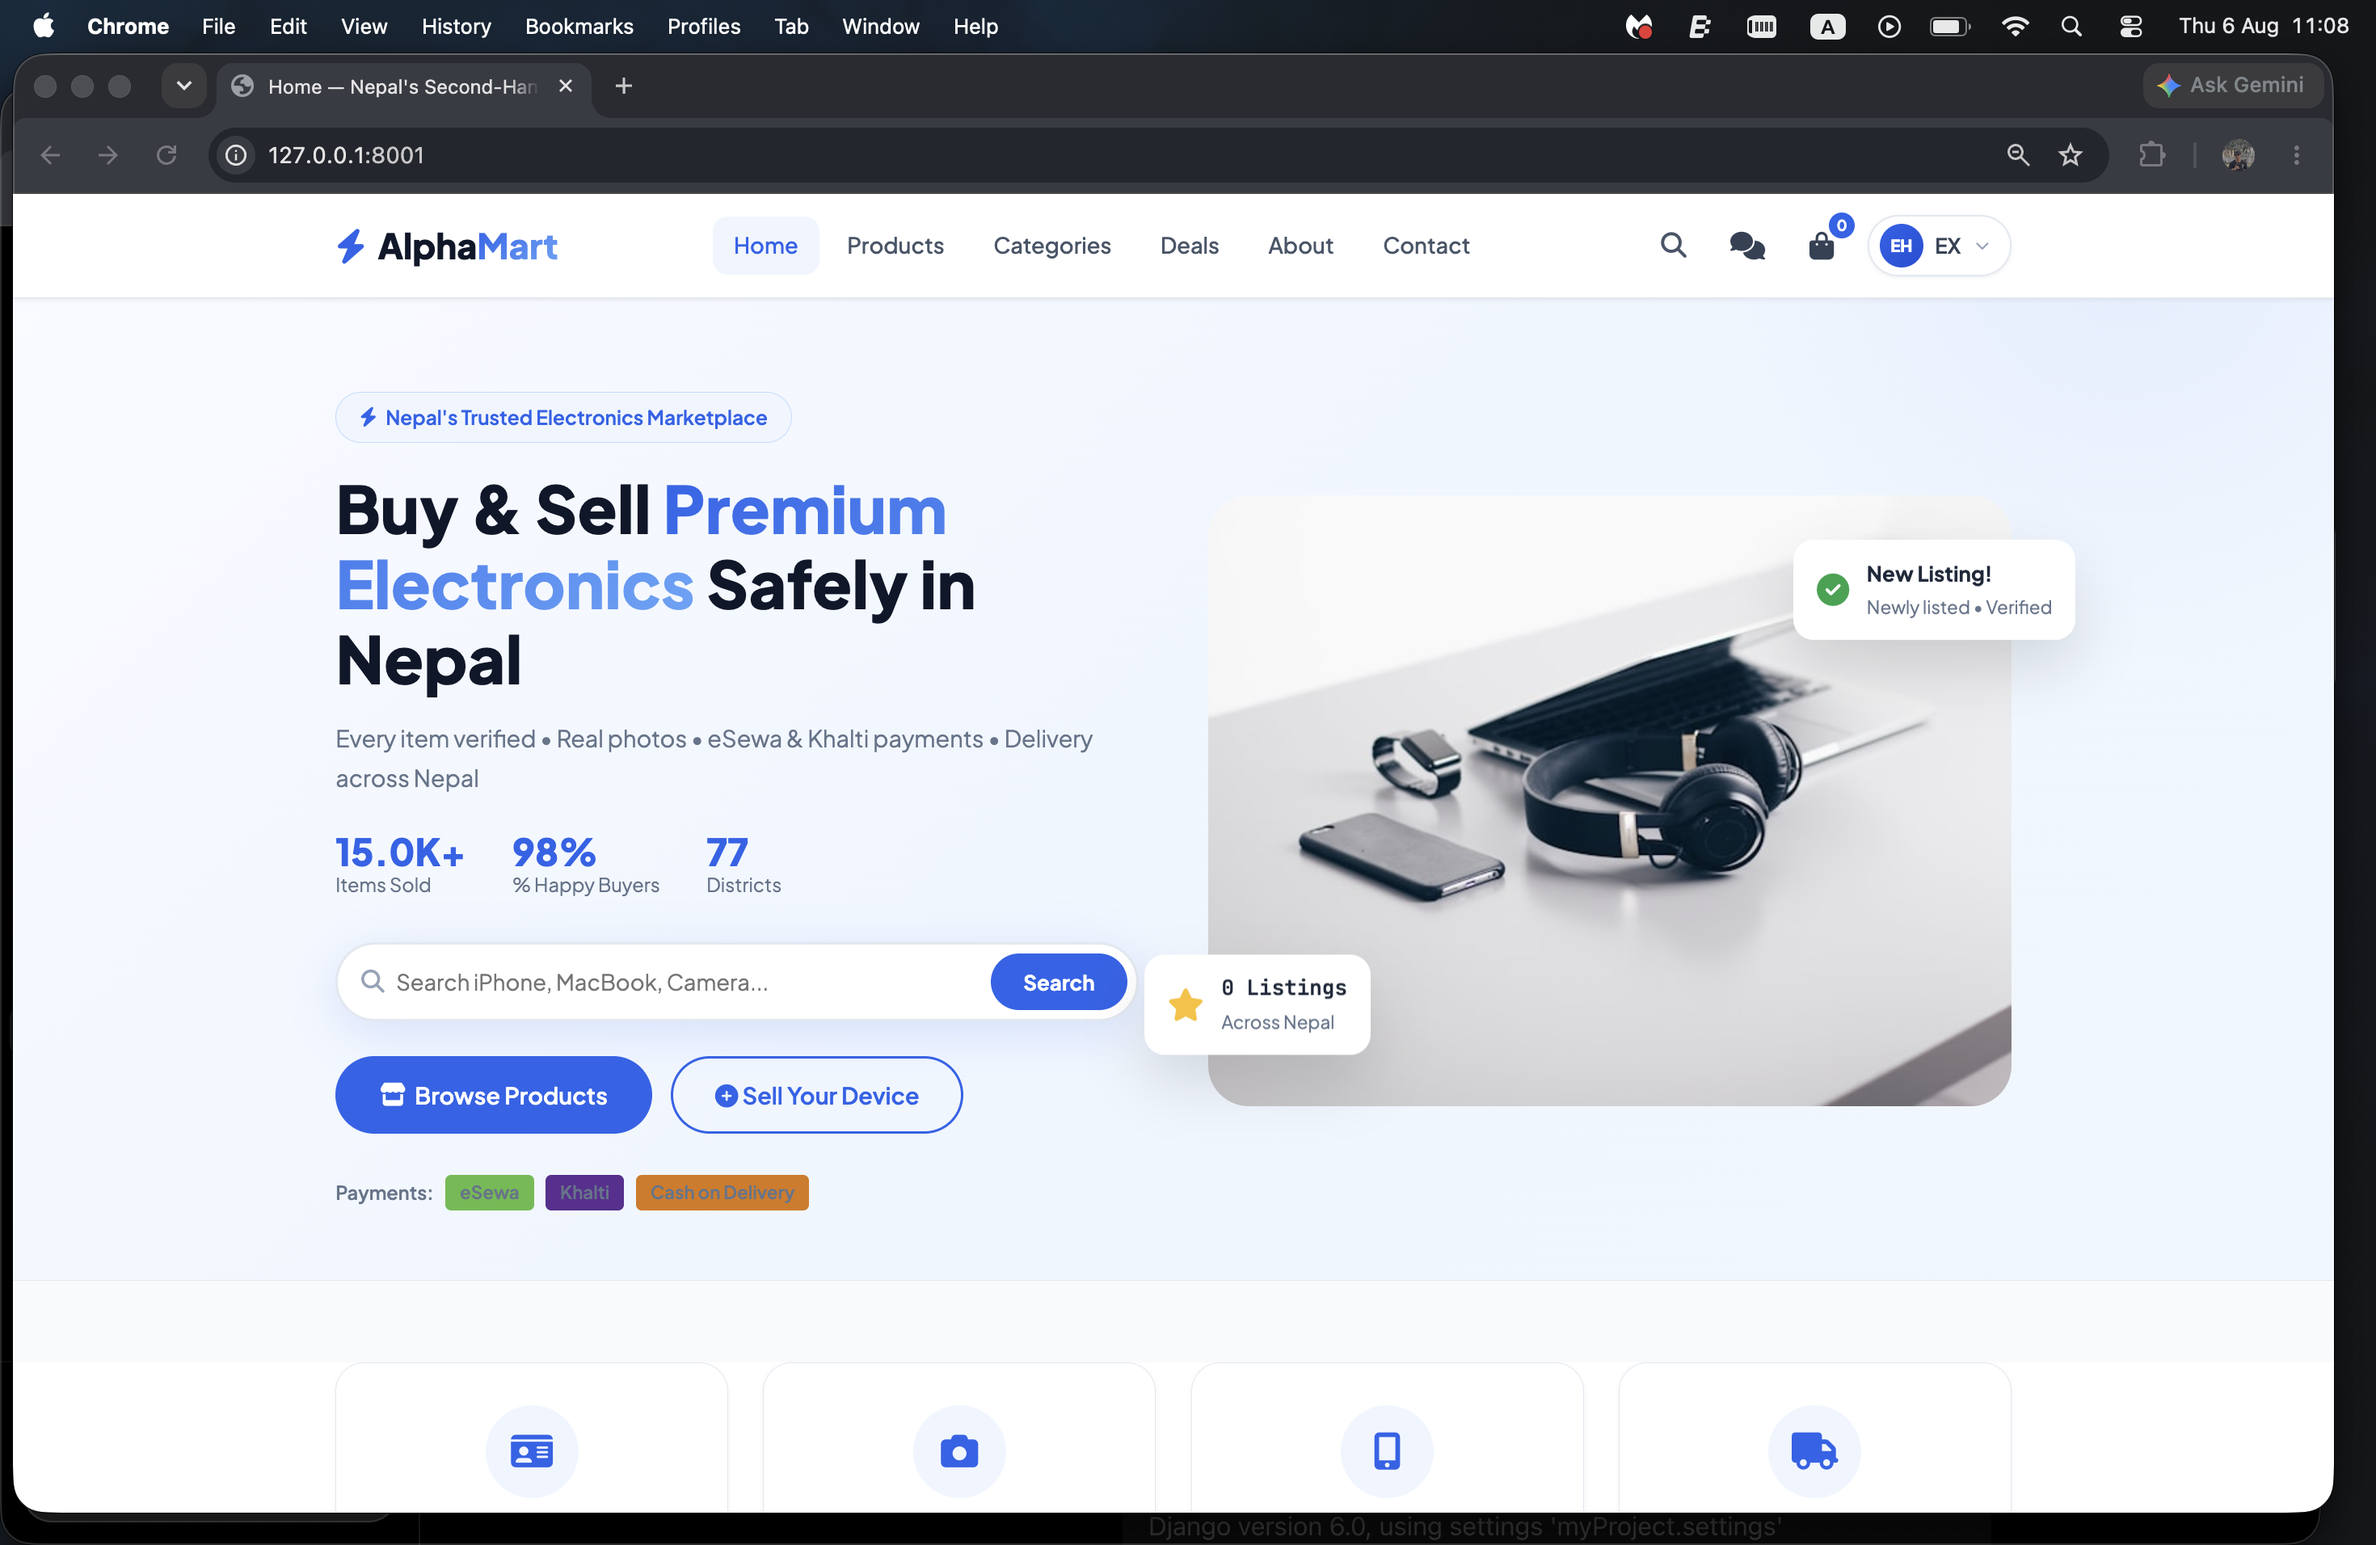
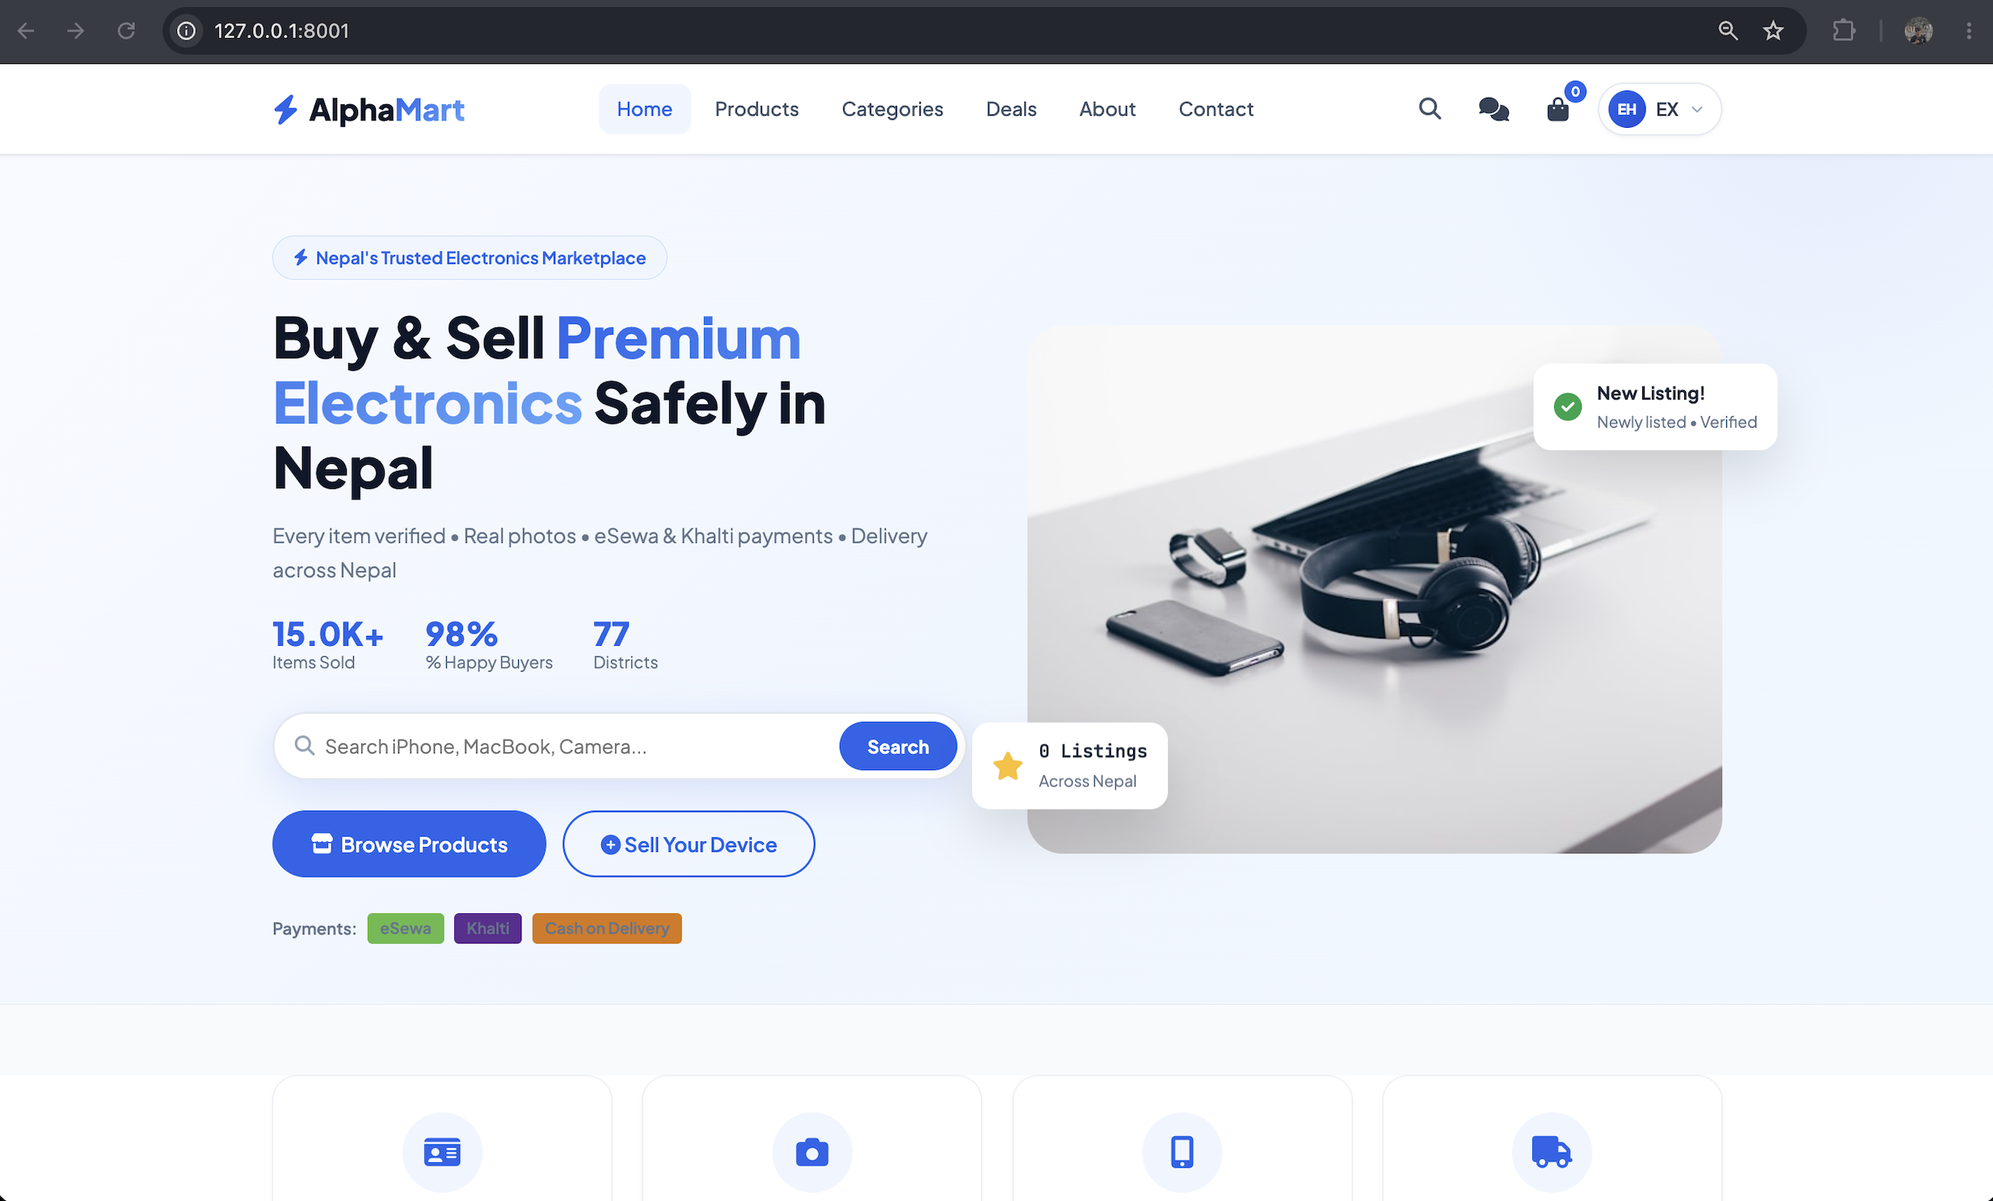
project part

diff --git a/src/component/ui/ProjectCard.tsx b/src/component/ui/ProjectCard.tsx
@@ -1,0 +1,58 @@
+interface ProjectCardProps {
+    title : string;
+    subtitle : string;
+    description: string;
+    image: string;
+    technologies: string[];
+    live: string;
+}
+const ProjectCard = ({
+  title,
+  subtitle,
+  description,
+  image,
+  technologies,
+  live,
+}: ProjectCardProps) => {
+  return (
+  <div className="group overflow-hidden rounded-2xl border border-slate-200 bg-white shadow-lg transition-all duration-300 hover:translate-y-2 hover:shadow-2xl">
+    <img
+    src={image}
+    alt={title}
+    className="w-full p-2 h-56 object-cover transition-transform duration-500 rounded-xl group-hover:scale-105"/>
+    <div className="p-6">
+      <p className="text-sm font-medium text-blue-600">
+        {subtitle}
+      </p>
+      <h3 className="mt-2 text-2xl font-bold text-slate-900">
+        {title}
+      </h3>
+      <p className="mt-4 leading-7 text-slate-600">
+        {description}
+      </p>
+      <div className="my-5 flex flex-wrap gap-2">
+        {technologies.map((tech) => (
+          <span key={tech}
+          className="rounded-full bg-slate-100 px-3 py-1 text-sm font-medium text-slate-700">
+            {tech}
+          </span>
+        ))}
+      </div>
+
+      {live && (
+        <a
+          href={live}
+          target="_blank"
+          rel="noopener noreferrer"
+          className="rounded-lg bg-blue-600 px-5 py-2.5 text-sm font-medium text-white transition hover:bg-blue-500"
+        >
+          Live Demo
+        </a>
+      )}
+
+    </div>
+  </div>
+);
+};
+
+export default ProjectCard;

diff --git a/src/component/sections/Projects.tsx b/src/component/sections/Projects.tsx
@@ -1,0 +1,39 @@
+import projects from "../../data/project";
+import ProjectCard from "../ui/ProjectCard";
+
+const Projects = () => {
+  return (
+    <section id="projects" className="py-16 lg:py-24">
+      <div className="max-w-7xl mx-auto px-6 md:px-10 lg:px-16">
+        <div className="mb-16">
+          <h2 className="text-3xl md:text-4xl lg:text-5xl font-bold text-slate-900">
+            My Projects
+          </h2>
+
+            <p className="mt-5 max-w-2xl text-base md:text-lg leading-7 md:leading-8 text-slate-500">
+              A collection of projects I've built using modern technologies,
+             focusing on responsive design, clean code, and real-world
+              problem solving.
+            </p>
+
+            <div className="w-32 md:w-48 h-[2px] bg-blue-500 mt-6 rounded-full"></div>
+            </div>
+            <div className="grid grid-cols-1 lg:grid-cols-2 gap-8">
+              {projects.map((project) => (
+                <ProjectCard
+                key={project.id}
+                title={project.title}
+                subtitle={project.subtitle}
+                description={project.description}
+                image={project.image}
+                technologies={project.technologies}
+                live={project.live}
+              />
+             ))}
+          </div>
+      </div>
+    </section>
+  );
+};
+
+export default Projects;

diff --git a/src/data/project.ts b/src/data/project.ts
@@ -1,8 +1,6 @@
-import AlphaMart from "../assets/projects/alpha-mart.png";
-import Himaaus from "../assets/projects/himaaus-dashboard.png";
-import Gym from "../assets/projects/gym-system.png";
-
-export const projects = [
+import AlphaMart from "../../src/assets/project/alpha-mart.png"
+import Himaaus from "../../src/assets/project/himaaus-dashboard.png"
+const projects = [
   {
     id: 1,
     title: "Alpha Mart",
@@ -19,9 +17,7 @@ export const projects = [
       "Tailwind CSS",
       "Django",
     ],
-
-    github: "",
-
+    
     live: "",
 
     featured: true,
@@ -45,35 +41,10 @@ export const projects = [
       "Tailwind CSS",
     ],
 
-    github: "",
+    live: "https://himaaus-dash.vercel.app/",
 
-    live: "",
-
-    featured: false,
-  },
-
-  {
-    id: 3,
-
-    title: "Gym Membership System",
-
-    subtitle: "Desktop Management System",
-
-    description:
-      "A Java Swing desktop application for managing gym members and memberships.",
-
-    image: Gym,
-
-    technologies: [
-      "Java",
-      "Swing",
-      "MySQL",
-    ],
-
-    github: "",
-
-    live: "",
-
-    featured: false,
+    featured: true,
   },
 ];
+
+export default projects;

diff --git a/src/App.tsx b/src/App.tsx
@@ -1,6 +1,7 @@
 import Navbar from "./component/layouts/Navbar"
 import About from "./component/sections/About"
 import Home from "./component/sections/Home"
+import Projects from "./component/sections/Projects"
 import Skills from "./component/sections/Skills"
 
 function App() {
@@ -10,6 +11,7 @@ function App() {
     <Home/>
     <About/>
     <Skills/>
+    <Projects/>
     </>
   )
 }
